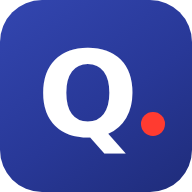
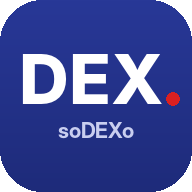
App passa a se chamar soDEXo: novo ícone, rodapé recolhível com versão, Treinamentos no lugar de Cursos
Claude-Session: https://claude.ai/code/session_01X9QLJm13dRdZz8PCeD6nBD

diff --git a/index.html b/index.html
@@ -5,9 +5,9 @@
 <meta name="viewport" content="width=device-width, initial-scale=1, viewport-fit=cover">
 <meta name="theme-color" content="#283897">
 <meta name="apple-mobile-web-app-capable" content="yes">
-<meta name="apple-mobile-web-app-title" content="Quiz Natura">
+<meta name="apple-mobile-web-app-title" content="soDEXo">
 <meta name="robots" content="noindex, nofollow">
-<title>Quiz Sodexo Natura</title>
+<title>soDEXo · Unidade Natura</title>
 <link rel="manifest" href="./manifest.webmanifest">
 <link rel="icon" href="./favicon.ico" sizes="any">
 <link rel="icon" type="image/png" sizes="32x32" href="./favicon-32.png">
@@ -53,7 +53,7 @@ h1,h2,h3{font-family:var(--display);line-height:1.15;text-wrap:balance;margin:0}
 .brand img{height:30px;width:auto;flex:none}
 .brand .sep{width:1px;height:30px;background:#C9CEE6;flex:none}
 .brand .q{line-height:1.05;letter-spacing:-.01em;min-width:0}
-.brand .q span{color:#DA2020}
+.brand .q span.dx{color:#DA2020}
 .brand small{display:block;font-family:var(--body);font-weight:700;font-size:11px;letter-spacing:.12em;text-transform:uppercase;color:#5B6285}
 .ghost{background:transparent;border:1.5px solid #283897;color:#283897;border-radius:999px;padding:7px 14px;font-size:14px;font-weight:600}
 
@@ -390,6 +390,12 @@ table.esc button.nmb{background:none;border:0;padding:0;font:inherit;font-weight
 .medias div.bx b{color:var(--bad)}
 .avlist{display:flex;flex-direction:column;gap:6px;margin-top:10px}
 .avlist .avc{background:var(--bg);border-radius:12px;padding:8px 10px;font-size:13.5px}
+.foot details.sobre{margin-top:10px}
+.foot details.sobre summary{list-style:none;cursor:pointer;display:inline-flex;align-items:center;gap:8px;font-size:13px;font-weight:700;opacity:.85;flex-wrap:wrap;min-height:40px}
+.foot details.sobre summary::-webkit-details-marker{display:none}
+.foot details.sobre summary .ver{opacity:.75;font-weight:600}
+.foot details.sobre[open] summary{margin-bottom:6px}
+.bnav button{white-space:nowrap;font-size:clamp(9.5px,2.75vw,12px)}
 </style>
 <style>*,*::before,*::after{box-sizing:border-box}body{margin:0}html{padding-top:env(safe-area-inset-top,0px)}img{max-width:100%}[hidden]{display:none!important}</style>
 </head>
@@ -408,6 +414,7 @@ a.btn{text-decoration:none}
 
 /* Navegação inferior (equipe) */
 body.has-nav main{padding-bottom:110px}
+body.has-nav .foot{padding-bottom:calc(96px + env(safe-area-inset-bottom,0px))}
 .bnav{position:fixed;left:0;right:0;bottom:0;z-index:15;background:var(--surface);border-top:1px solid var(--line);padding:6px max(8px,env(safe-area-inset-right,0px)) calc(6px + env(safe-area-inset-bottom,0px)) max(8px,env(safe-area-inset-left,0px));display:flex;justify-content:center}
 .bnav .in{display:grid;grid-template-columns:repeat(4,1fr);gap:4px;width:100%;max-width:560px}
 .bnav button{background:none;border:0;border-radius:12px;padding:6px 2px;display:flex;flex-direction:column;align-items:center;gap:2px;font-size:12px;font-weight:700;color:var(--muted);position:relative}
@@ -997,7 +1004,7 @@ const MOCK=(()=>{
 })();
 
 /* ---------- App (PWA) ---------- */
-const APP_VERSION='20261112172958';
+const APP_VERSION='20261112174015';
 let instalarEvt=null;
 const STANDALONE=(()=>{try{return matchMedia('(display-mode: standalone)').matches||navigator.standalone===true}catch(e){return false}})();
 const IOS=/iphone|ipad|ipod/i.test(navigator.userAgent);
@@ -1069,13 +1076,16 @@ function avatar(c,size){
 let toastT;
 function toast(t){const e=$('#toast');e.textContent=t;e.hidden=false;clearTimeout(toastT);toastT=setTimeout(()=>e.hidden=true,3000)}
 function topbar(sub,right){
-  return `${DEMO?'<div class="demo">Modo demonstração com dados de exemplo. Equipe: PIN 1111 · Gestão: 123456</div>':''}<header class="top"><div class="wrap ${S.view==='admin'?'wide':''}"><div class="brand"><img src="${LOGO}" alt="Sodexo"><span class="sep" aria-hidden="true"></span><div class="q">Quiz<span>.</span>${sub?`<small>${sub}</small>`:''}</div></div>${right||''}</div></header>`;
+  return `${DEMO?'<div class="demo">Modo demonstração com dados de exemplo. Equipe: PIN 1111 · Gestão: 123456</div>':''}<header class="top"><div class="wrap ${S.view==='admin'?'wide':''}"><div class="brand"><img src="${LOGO}" alt="Sodexo"><span class="sep" aria-hidden="true"></span><div class="q">so<span class="dx">DEX</span>o${sub?`<small>${sub}</small>`:''}</div></div>${right||''}</div></header>`;
 }
+function versaoTxt(){const v=String(typeof APP_VERSION!=='undefined'?APP_VERSION:'');return v.length>=12?'Versão '+v.slice(6,8)+'/'+v.slice(4,6)+'/'+v.slice(0,4)+' · '+v.slice(8,10)+'h'+v.slice(10,12):'Versão '+v}
 function footer(){
   return `<footer class="foot ${S.view==='admin'?'wide':''}"><div class="wrap">
-    <div class="fl"><img src="${LOGO_W}" alt="Sodexo"><span class="tag">Quiz · Unidade Natura</span></div>
-    <p class="disc"><b>Ferramenta interna, não oficial.</b> Este portal não é um sistema da Sodexo nem da Natura. Foi criado pela gestão da unidade para atividades internas da equipe, como quizzes, avaliações diárias e premiações do mês. Não informe aqui senhas, documentos ou dados pessoais além do seu PIN.</p>
-    <span class="small">Uso exclusivo da equipe Sodexo na unidade Natura.</span>
+    <div class="fl"><img src="${LOGO_W}" alt="Sodexo"><span class="tag">so<b style="color:#FF6B6B">DEX</b>o · Unidade Natura</span></div>
+    <details class="sobre"><summary>${ic('info')} Sobre este app · <span class="ver num">${versaoTxt()}</span></summary>
+    <p class="disc"><b>soDEXo</b> = Sodexo + <b>DEX</b> (Digital Employee Experience, a experiência digital do funcionário).</p>
+    <p class="disc"><b>Ferramenta interna, não oficial.</b> Este portal não é um sistema da Sodexo nem da Natura. Foi criado pela gestão da unidade para atividades internas da equipe, como treinamentos, quizzes, avaliações e premiações. Não informe aqui senhas, documentos ou dados pessoais além do seu PIN.</p>
+    <span class="small">Uso exclusivo da equipe Sodexo na unidade Natura.</span></details>
   </div></footer>`;
 }
 function keypad(){
@@ -1122,7 +1132,7 @@ function vAdminLogin(){
 function bnav(){
   const pend=quizzesAbertos().some(q=>!minhaResp(q.id));
   const me=eu(),lim=me&&me.grupo==='lim';
-  const t=[['hoje','listCheck','Hoje'],...(lim?[['tarefas','sparkles','Tarefas']]:[]),['cursos','grad','Cursos'],['quiz','quiz','Quiz'],['ranking','trophy','Ranking'],['escala','calendar','Escala']];
+  const t=[['hoje','listCheck','Hoje'],...(lim?[['tarefas','sparkles','Tarefas']]:[]),['cursos','grad','Treinamentos'],['quiz','quiz','Quiz'],['ranking','trophy','Ranking'],['escala','calendar','Escala']];
   const dot=k=>(k==='quiz'&&pend)||(k==='tarefas'&&tarefasPendentesHoje())||(k==='cursos'&&cursosNovos()>0);
   return `<nav class="bnav" aria-label="Menu"><div class="in" style="grid-template-columns:repeat(${t.length},1fr)">${t.map(([k,icn,l])=>`<button class="${S.ctab===k||(k==='ranking'&&S.ctab==='hist')||(k==='hoje'&&S.ctab==='colegas')?'on':''}" data-act="ctab" data-k="${k}"><span class="ic" aria-hidden="true">${ic(icn)}</span>${l}${dot(k)?'<span class="dotn" aria-label="pendente"></span>':''}</button>`).join('')}</div></nav>`;
 }
@@ -1551,7 +1561,7 @@ function gestorForm(id){
 }
 A.instalar=async()=>{if(!instalarEvt)return;const ev=instalarEvt;instalarEvt=null;ev.prompt();try{await ev.userChoice}catch(e){}render()};
 window.addEventListener('beforeinstallprompt',e=>{e.preventDefault();instalarEvt=e;render()});
-window.addEventListener('appinstalled',()=>{instalarEvt=null;toast('App instalado! Procure o ícone Quiz Natura.');render()});
+window.addEventListener('appinstalled',()=>{instalarEvt=null;toast('App instalado! Procure o ícone soDEXo.');render()});
 
 /* Atualização forçada: compara a versão do app com a publicada */
 let esperandoAtt=false;
@@ -2730,7 +2740,7 @@ function avisoCard(compacto){
 }
 function notifPrev(){
   const me=eu(),nome=me?String(me.nome).split(' ')[0]:'Ana';
-  return `<div class="nprev" aria-hidden="true"><img src="./icon-192.png" alt=""><div><div class="nph"><b>Quiz Natura</b><small>agora</small></div><b>Falta você no quiz</b><span>${esc(nome)}, você ainda não respondeu. Encerra dia 15 às 23h49.</span></div></div>`;
+  return `<div class="nprev" aria-hidden="true"><img src="./icon-192.png" alt=""><div><div class="nph"><b>soDEXo</b><small>agora</small></div><b>Falta você no quiz</b><span>${esc(nome)}, você ainda não respondeu. Encerra dia 15 às 23h49.</span></div></div>`;
 }
 function pedirAvisosModal(){
   if(!S.me||S.view!=='home'||S.play||$('#modal').innerHTML)return;
@@ -2881,7 +2891,7 @@ addEventListener('hashchange',()=>{if(S.me&&S.view==='home'&&(location.hash==='#
   if(!ICO.grad)ICO.grad=['M22 10 12 5 2 10l10 5 10-5z','M6 12v5c3 3 9 3 12 0v-5'];})();
 const MENU=[['dia','Dia a dia','listCheck',[['avaliar','Avaliar'],['colegas','Colegas avaliam'],['limpeza','Limpeza']]],
   ['equipe','Equipe','users',[['equipe','Pessoas e PINs'],['escala','Escala e férias'],['acessos','Acessos']]],
-  ['aprend','Cursos','grad',[['treinos','Treinamentos'],['quiz','Quizzes']]],
+  ['aprend','Treinamentos','grad',[['treinos','Treinamentos'],['quiz','Quizzes']]],
   ['recon','Ranking','trophy',[['ranking','Ranking'],['premios','Prêmios']]],
   ['tv','TV','tv',[['cardapio','Cardápio'],['tv','Anúncios e vídeos']]]];
 S.subUlt={};
@@ -2897,7 +2907,7 @@ function colegasCard(){
   if(!S.col){carregarColegasUmaVez();return ''}
   const c=S.col;if(!c.aberto||!c.colegas.length)return '';
   const f=c.feitas.length,t=c.colegas.length;
-  return `<button class="cta" data-act="ctab" data-k="colegas"><span class="ic">${ic('users')}</span><span class="t"><b>${f>=t?'Você avaliou todos os colegas hoje':'Avalie seus colegas hoje'}</b><small>${f}/${t} avaliados · seus colegas não veem quem avaliou</small></span>${ic('chevR')}</button>`;
+  return `<button class="cta" data-act="ctab" data-k="colegas"><span class="ic">${ic('users')}</span><span style="flex:1;min-width:0"><b style="display:block">${f>=t?'Você avaliou todos os colegas hoje':'Avalie seus colegas hoje'}</b><small style="display:block;font-weight:600">${f}/${t} avaliados · anônimo entre a equipe</small></span>${ic('chevR')}</button>`;
 }
 let _colCarregou=0;function carregarColegasUmaVez(){if(Date.now()-_colCarregou>60000){_colCarregou=Date.now();carregarColegas()}}
 function cColegas(me){
@@ -3190,7 +3200,7 @@ function aTreinoEditor(){
      <span class="hint">Ex.: POP em PDF, cartaz de boas práticas, ficha técnica, link de vídeo do YouTube.</span></section>
    <section class="panel stack" style="gap:10px"><div class="toolbar"><div class="grp"><h2 style="font-size:18px">${ic('eye')} Publicação</h2></div>
      <button class="btn ${t.publicado?'alt':''}" data-act="trPublicar">${t.publicado?'Tirar do ar':`${ic('megaphone')} Publicar para a equipe`}</button></div>
-     <p class="muted" style="margin:0">${t.publicado?'Está visível no app da equipe, na aba Cursos.':'Ainda é rascunho: só a gestão vê. Revise o resumo e publique.'}</p>
+     <p class="muted" style="margin:0">${t.publicado?'Está visível no app da equipe, na aba Treinamentos.':'Ainda é rascunho: só a gestão vê. Revise o resumo e publique.'}</p>
      ${alvo.length?`<div class="list" style="margin-top:4px">${alvo.sort((a,b)=>a.nome.localeCompare(b.nome,'pt-BR')).map(c=>{const v=vis.find(z=>z.colabId===c.id);return `<div class="done"><span class="t">${esc(c.nome)}<br><small class="muted">${esc(GRUPOS[c.grupo]?GRUPOS[c.grupo].nome:'')}</small></span>${v&&v.concluido?`<span class="chip ok num">${ic('check')} Concluiu${v.total?` · ${v.acertos}/${v.total}`:''}</span>`:v?`<span class="chip warn num">Assistiu ${v.progresso}%</span>`:'<span class="chip mute">Não começou</span>'}</div>`}).join('')}</div>`:''}</section>`:''}`;
 }
 function trColetar(){
@@ -3278,7 +3288,7 @@ Object.assign(A,{
     busyBtn(b,true,'Salvando…');try{await call('salvarTreino',adminPin,{titulo:t.titulo,categoria:t.categoria,descricao:t.descricao,grupos:t.grupos,id:t.id,materiais:[...(t.materiais||[]),{tipo:'link',nome:nome||url.replace(/^https?:\/\//,'').slice(0,60),url}]});closeModal();await carregarTreinosG();toast('Link adicionado')}catch(e){ferr(msg(e));busyBtn(b,false,'Adicionar')}},
   trPublicar:async(d,b)=>{const t=trAtual();const p=trColetar();if(!t.publicado&&!(p.resumo||t.resumo)&&!(t.pontos||[]).length){openModal(`<h2>Publicar sem resumo?</h2><p>Este treinamento ainda não tem resumo. A equipe vai ver só o vídeo.</p><div class="acts"><button class="btn alt" data-act="close">Voltar</button><button class="btn" data-act="trPublicarOk">Publicar mesmo assim</button></div>`);return}
     A.trPublicarOk(d,b)},
-  trPublicarOk:async(d,b)=>{const t=trAtual();const pub=!t.publicado;closeModal();busyBtn(b,true,'Salvando…');try{await call('salvarTreino',adminPin,{...trColetar(),id:t.id,publicado:pub});await carregarTreinosG();toast(pub?'Publicado! A equipe já vê na aba Cursos.':'Tirado do ar')}catch(e){toast(msg(e));busyBtn(b,false)}},
+  trPublicarOk:async(d,b)=>{const t=trAtual();const pub=!t.publicado;closeModal();busyBtn(b,true,'Salvando…');try{await call('salvarTreino',adminPin,{...trColetar(),id:t.id,publicado:pub});await carregarTreinosG();toast(pub?'Publicado! A equipe já vê na aba Treinamentos.':'Tirado do ar')}catch(e){toast(msg(e));busyBtn(b,false)}},
   trInfoImg:async()=>{const t=S.view==='admin'?trAtual():trColabAtual();if(!t)return;const c=await infoCanvas(t);salvarImagem(c,'infografico-'+norm(t.titulo).replace(/[^a-z0-9]+/g,'-').slice(0,40)+'.png','Infográfico: '+t.titulo)},
   trTestarIA:async(d,b)=>{busyBtn(b,true,'Testando…');try{await funcaoTreino({acao:'testar'});await carregarTreinosG();toast('IA ligada e funcionando!')}catch(e){openModal(`<h2>A IA ainda não respondeu</h2><p>${esc(msg(e))}</p><p class="muted">Confira se a chave foi salva no Supabase com o nome <b>GEMINI_API_KEY</b>.</p><div class="acts"><button class="btn" data-act="close">Entendi</button></div>`);busyBtn(b,false,'Testar de novo')}}
 });
@@ -3292,7 +3302,7 @@ function trColabAtual(){return S.trc&&S.trc.treinos.find(t=>t.id===S.trSel)}
 function meuTr(id){return S.trc&&S.trc.meus.find(m=>m.treinoId===id)}
 function cursosNovos(){return S.trc?S.trc.treinos.filter(t=>!meuTr(t.id)).length:0}
 function cCursos(me){
-  if(!S.trc){if(!S.trcErr)carregarCursos();return S.trcErr?`<div class="notice">${esc(S.trcErr)} <button class="link" data-act="cuRecarregar">Tentar de novo</button></div>`:carregando('Abrindo cursos…')}
+  if(!S.trc){if(!S.trcErr)carregarCursos();return S.trcErr?`<div class="notice">${esc(S.trcErr)} <button class="link" data-act="cuRecarregar">Tentar de novo</button></div>`:carregando('Abrindo treinamentos…')}
   if(S.trSel){const t=trColabAtual();if(t)return cCurso(t);S.trSel=null}
   const ts=S.trc.treinos,feitos=ts.filter(t=>(meuTr(t.id)||{}).concluido).length,pct=ts.length?Math.round(feitos/ts.length*100):0;
   const andamento=ts.filter(t=>{const m=meuTr(t.id);return m&&!m.concluido});
@@ -3303,7 +3313,7 @@ function cCursos(me){
     <h3>${esc(t.titulo)}</h3>${t.descricao?`<span class="muted" style="font-size:13.5px;line-height:1.4">${esc(t.descricao)}</span>`:''}</div></button>`};
   return `<section class="trhero"><div class="ring" style="--p:${pct}"><span class="num">${pct}%</span></div><div><h2>Seus treinamentos</h2><p>Você concluiu <b style="color:#fff">${feitos} de ${ts.length}</b>. Assista ao vídeo, leia o resumo e faça o teste rápido no fim.</p></div></section>
    ${andamento.length?`<section><div class="sec-h"><h2>Continue de onde parou</h2></div><div class="trgrid">${andamento.slice(0,2).map(card).join('')}</div></section>`:''}
-   <section class="stack" style="gap:12px"><div class="sec-h" style="margin:0"><h2>Todos os cursos</h2><span class="muted num">${ts.length}</span></div>
+   <section class="stack" style="gap:12px"><div class="sec-h" style="margin:0"><h2>Todos os treinamentos</h2><span class="muted num">${ts.length}</span></div>
    ${cats.length>1?`<div class="filtros"><button class="${!S.trcCat?'on':''}" data-act="cuCat" data-k="">Todos</button>${cats.map(c=>`<button class="${S.trcCat===c?'on':''}" data-act="cuCat" data-k="${esc(c)}">${esc(c)}</button>`).join('')}</div>`:''}
    ${lista.length?`<div class="trgrid">${lista.map(card).join('')}</div>`:`<div class="empty">Nenhum treinamento por enquanto. Quando a gestão publicar, ele aparece aqui.</div>`}</section>`;
 }
@@ -3322,7 +3332,7 @@ function cCurso(t){
       ${!podeConcluir?`<div class="notice">${ic('play')} Assista pelo menos 80% do vídeo para liberar ${qs.length?'o teste':'a conclusão'}. Você está em <b>${visto}%</b>.</div>`:''}
       ${podeConcluir?qs.map((q,i)=>`<div class="trq"><p>${i+1}. ${esc(q.p)}</p>${(q.ops||[]).map((o,j)=>{const sel=R.esc[i]===j,cls=R.fim?(j===q.c?'c':sel?'e':''):'';return `<label class="${cls}"><input type="radio" name="trq${i}" data-act="cuResp" data-i="${i}" data-j="${j}" ${sel?'checked':''} ${R.fim?'disabled':''}> ${esc(o)}</label>`}).join('')}${R.fim&&q.exp?`<p class="exp">${ic('bulb')} ${esc(q.exp)}</p>`:''}</div>`).join(''):''}
       ${podeConcluir?`<button class="btn" data-act="cuConcluir" style="width:100%">${ic('checkCircle')} ${qs.length?'Enviar respostas e concluir':'Marcar como concluído'}</button>`:''}</section>`;
-  return `<div><button class="link" data-act="cuVoltar" style="padding:0">${ic('chevL')} Todos os cursos</button></div>
+  return `<div><button class="link" data-act="cuVoltar" style="padding:0">${ic('chevL')} Todos os treinamentos</button></div>
    <section class="stack" style="gap:8px"><div class="trmeta"><span class="chip cat">${esc(t.categoria)}</span>${t.duracao?`<span class="chip mute num">${ic('clock')} ${fmtDur(t.duracao)}</span>`:''}</div><h2 style="font-size:22px;line-height:1.25">${esc(t.titulo)}</h2>${t.descricao?`<p class="muted" style="margin:0">${esc(t.descricao)}</p>`:''}</section>
    ${t.videoUrl?`<div class="trplayer"><video id="cuVideo" src="${esc(t.videoUrl)}" controls playsinline preload="metadata" ${t.capa?`poster="${esc(t.capa)}"`:''}></video></div>`:''}
    <div class="trsegs" role="tablist">${segs.map(([k,icn,l])=>`<button class="${S.trSeg===k?'on':''}" data-act="cuSeg" data-k="${k}">${ic(icn)} ${l}</button>`).join('')}</div>

diff --git a/sw.js b/sw.js
@@ -1,8 +1,8 @@
-/* Quiz Natura · service worker
+/* soDEXo · service worker
    - Página: sempre busca a versão mais nova na internet (rede primeiro); sem internet, usa a cópia salva.
    - Dados (Supabase) nunca passam pelo cache.
    - Cada publicação troca a VERSION, e o app se atualiza sozinho. */
-const VERSION='20261112172958';
+const VERSION='20261112174015';
 const CACHE='quiznatura-'+VERSION;
 const SHELL=['./','./index.html','./manifest.webmanifest','./icon-192.png','./icon-512.png','./favicon.ico','./apple-touch-icon.png'];
 
@@ -43,7 +43,7 @@ self.addEventListener('fetch',e=>{
 /* Avisos no celular (tarefas da limpeza) */
 self.addEventListener('push',e=>{
   let d={};try{d=e.data?e.data.json():{}}catch(_){d={body:e.data?e.data.text():''}}
-  e.waitUntil(self.registration.showNotification(d.title||'Quiz Natura',{body:d.body||'Você tem novidades no app.',icon:'./icon-192.png',badge:'./favicon-32.png',tag:d.tag||'aviso',renotify:true,data:{url:d.url||'./'}}));
+  e.waitUntil(self.registration.showNotification(d.title||'soDEXo',{body:d.body||'Você tem novidades no app.',icon:'./icon-192.png',badge:'./favicon-32.png',tag:d.tag||'aviso',renotify:true,data:{url:d.url||'./'}}));
 });
 self.addEventListener('notificationclick',e=>{
   e.notification.close();
